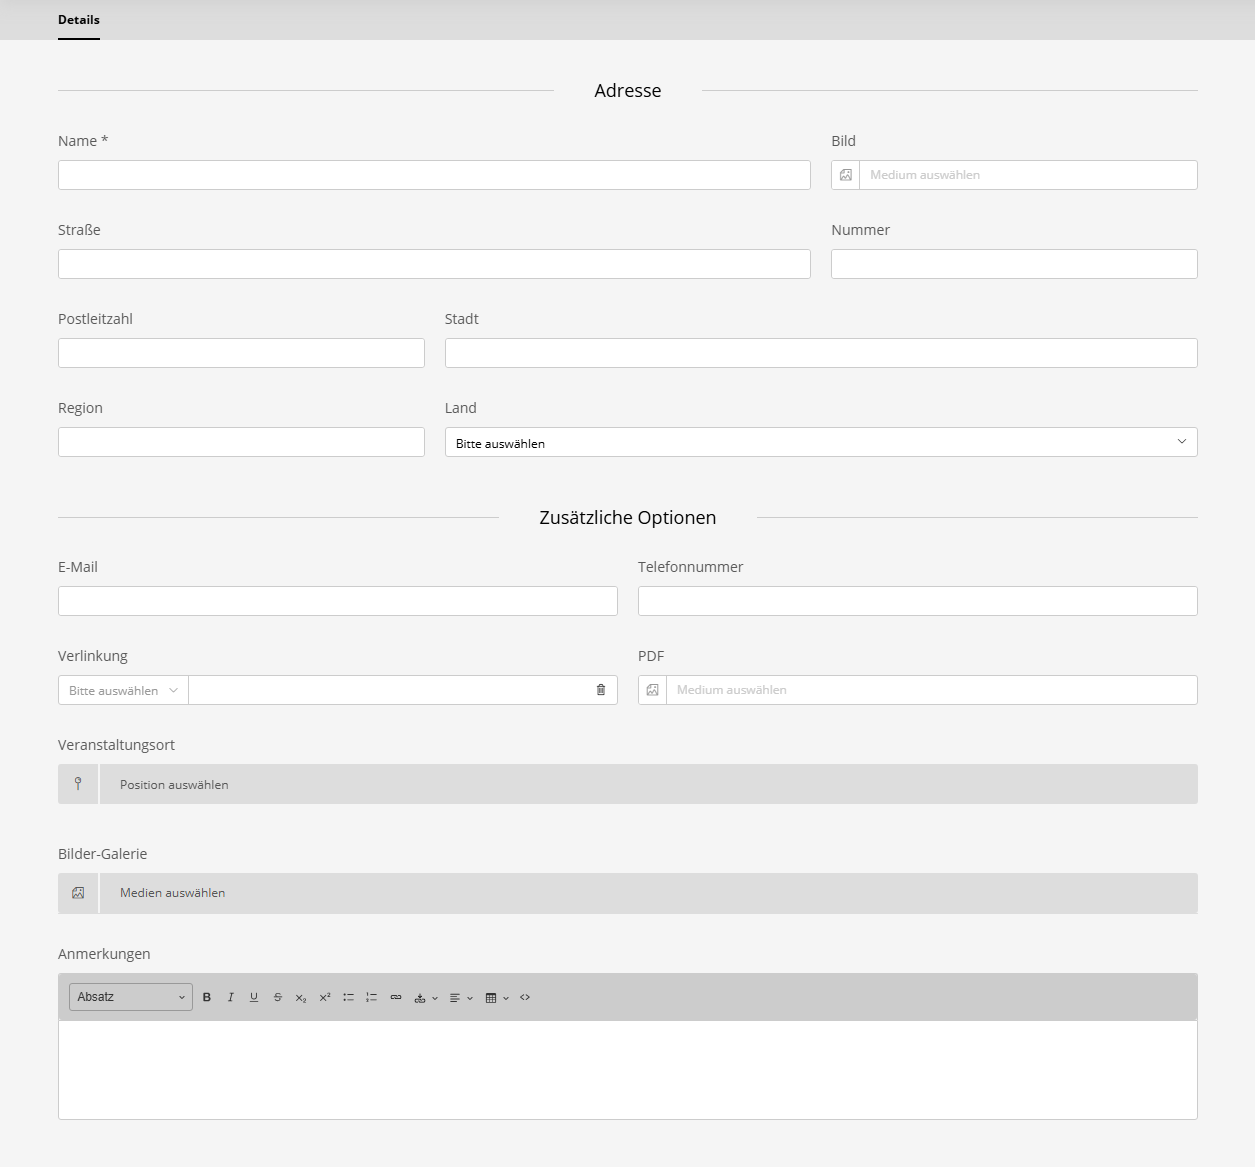
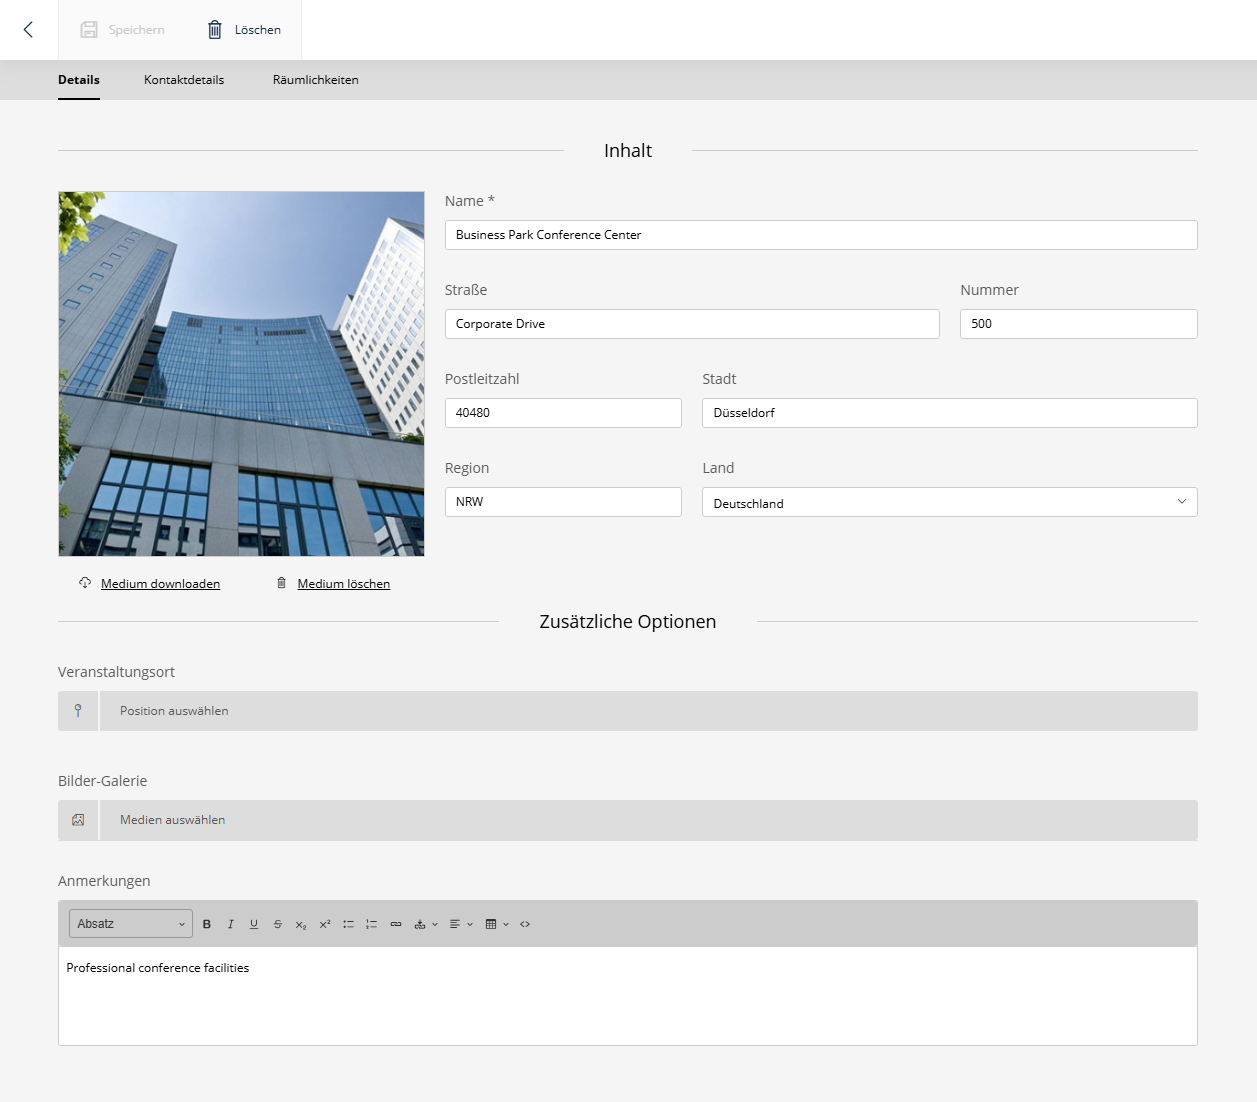
Reverted Sulu 3.0.1 Fix; Documentation

diff --git a/src/Controller/Admin/EventController.php b/src/Controller/Admin/EventController.php
@@ -92,8 +92,7 @@ class EventController extends AbstractRestController
     public function getAction(Request $request, int $id): Response
     {
         /** @var Event|null $event */
-        //$event = $this->entityManager->getRepository(Event::class)->findOneBy(['id' => $id]);
-        $event = $this->entityManager->getRepository(Event::class)->findById((int) $id);
+        $event = $this->entityManager->getRepository(Event::class)->findOneBy(['id' => $id]);
 
         if (!$event) {
             throw new NotFoundHttpException();
@@ -153,8 +152,7 @@ class EventController extends AbstractRestController
     public function postTriggerAction(string $id, Request $request): Response
     {
         /** @var Event|null $event */
-        //$event = $this->entityManager->getRepository(Event::class)->findOneBy(['id' => $id]);
-        $event = $this->entityManager->getRepository(Event::class)->findById((int) $id);
+        $event = $this->entityManager->getRepository(Event::class)->findOneBy(['id' => $id]);
 
         if (!$event) {
             throw new NotFoundHttpException();
@@ -253,8 +251,7 @@ class EventController extends AbstractRestController
     public function putAction(Request $request, int $id): Response
     {
         /** @var Event|null $event */
-        //$event = $this->entityManager->getRepository(Event::class)->findOneBy(['id' => $id]);
-        $event = $this->entityManager->getRepository(Event::class)->findById((int) $id);
+        $event = $this->entityManager->getRepository(Event::class)->findOneBy(['id' => $id]);
 
         if (!$event) {
             throw new NotFoundHttpException();
@@ -303,8 +300,7 @@ class EventController extends AbstractRestController
     public function deleteAction(Request $request, int $id): Response
     {
         /** @var Event $event */
-        //$event = $this->entityManager->find(Event::class, $id);
-        $event = $this->entityManager->getRepository(Event::class)->findById((int) $id);
+        $event = $this->entityManager->find(Event::class, $id);
 
         if (!$event) {
             throw new NotFoundHttpException();

diff --git a/src/Repository/EventRepository.php b/src/Repository/EventRepository.php
@@ -43,14 +43,7 @@ class EventRepository extends ServiceEntityRepository
 
     public function findById(int $id): ?Event
     {
-        //return $this->find($id);
-        $qb = $this->createQueryBuilder('event')
-            ->leftJoin('event.dimensionContents', 'dimensionContent')
-            ->addSelect('dimensionContent')
-            ->where('event.id = :id')
-            ->setParameter('id', $id);
-
-        return $qb->getQuery()->getOneOrNullResult();
+        return $this->find($id);
     }
 
     public function findByIds(array $ids, string $locale, string $stage = DimensionContentInterface::STAGE_LIVE): array

diff --git a/src/DependencyInjection/SuluEventExtension.php b/src/DependencyInjection/SuluEventExtension.php
@@ -185,7 +185,7 @@ class SuluEventExtension extends Extension implements PrependExtensionInterface
                         Event::TEMPLATE_TYPE => [
                             'default_type' => Event::TEMPLATE_TYPE,
                             'directories' => [
-                                __DIR__.'/../Resources/config/templates',
+                                __DIR__.'/../Resources/config/templates/events',
                             ],
                         ],
                     ],

diff --git a/docs/locations.de.md b/docs/locations.de.md
@@ -10,7 +10,7 @@ Standorte werden im Sulu-Admin-Panel unter **Events > Standorte** verwaltet.
 
 ### Standort-Eigenschaften
 
-![img.png](img/locations.de.png)
+![Location Form](img/locations.de.png)
 
 - **Name**: Anzeigename des Standorts
 - **Straße**: Straßenadresse
@@ -199,3 +199,25 @@ Für korrektes Event-Markup Standortdaten einbeziehen:
 }
 </script>
 ```
+
+### Standort-Räumlichkeiten
+
+![Location Premises](img/locations.premises.de.png)
+
+Zu jedem Standort können Räumlichkeiten angelegt werden. Diese können in den Blocks des Multi-Session-Template gewählt werden, um einen Programmpunkt einem Raum zuweisen zu können.
+
+```xml
+<property name="location" type="single_select" colspan="6">
+    <meta>
+        <title>sulu_event.location</title>
+    </meta>
+    <params>
+        <param name="values"
+               type="expression"
+               value="service('sulu_event.location_premises_selection').getValues()"
+        />
+    </params>
+</property>
+```
+
+![Location Premises Selection](img/locations.premises.selection.en.png)

diff --git a/docs/locations.en.md b/docs/locations.en.md
@@ -10,7 +10,7 @@ Locations are managed in the Sulu admin panel under **Events > Locations**.
 
 ### Location Properties
 
-![img.png](img/locations.en.png)
+![Location Properties](img/locations.en.png)
 
 - **Name**: Display name of the location
 - **Street**: Street address
@@ -209,3 +209,25 @@ For proper event markup, include location data:
 </script>
 ```
 
+### Location Premises Properties
+
+![Location Premises Properties](img/locations.premises.en.png)
+
+Premises can be created for each location. These can be selected in the blocks of the multi-session template in order to assign a agenda item to a room.
+
+
+```xml
+<property name="location" type="single_select" colspan="6">
+    <meta>
+        <title>sulu_event.location</title>
+    </meta>
+    <params>
+        <param name="values"
+               type="expression"
+               value="service('sulu_event.location_premises_selection').getValues()"
+        />
+    </params>
+</property>
+```
+
+![Location Premises Selection](img/locations.premises.selection.en.png)

diff --git a/README.de.md b/README.de.md
@@ -14,7 +14,7 @@ Es ermöglicht die Erstellung und Verwaltung von Events mit detaillierten Inform
 Erweiterte Funktionen wie wiederkehrende Termine, ein Kalender-Frontend, iCal-Export und Social-Media-Integration sind ebenfalls enthalten.
 Dieses Bundle basiert auf dem [Sulu Workshop](https://github.com/sulu/sulu-workshop) und wurde im Laufe der Zeit mit immer mehr Features ausgestattet.
 
-![Form template events.png](docs/img/template-event.de.png)
+![Form template events.png](docs/img/template.multi-session.de.png)
 
 ## ✨ Features
 

diff --git a/README.md b/README.md
@@ -13,7 +13,7 @@ It enables the creation and management of events with detailed information, loca
 Advanced features such as recurring events, a calendar frontend, iCal export and social media integration are also included.
 This bundle is based on the [Sulu Workshop](https://github.com/sulu/sulu-workshop) and has been equipped with more and more features over time.
 
-![img.png](docs/img/template-event.en.png)
+![img.png](docs/img/template.multi-session.en.png)
 
 ## ✨ Features
 
